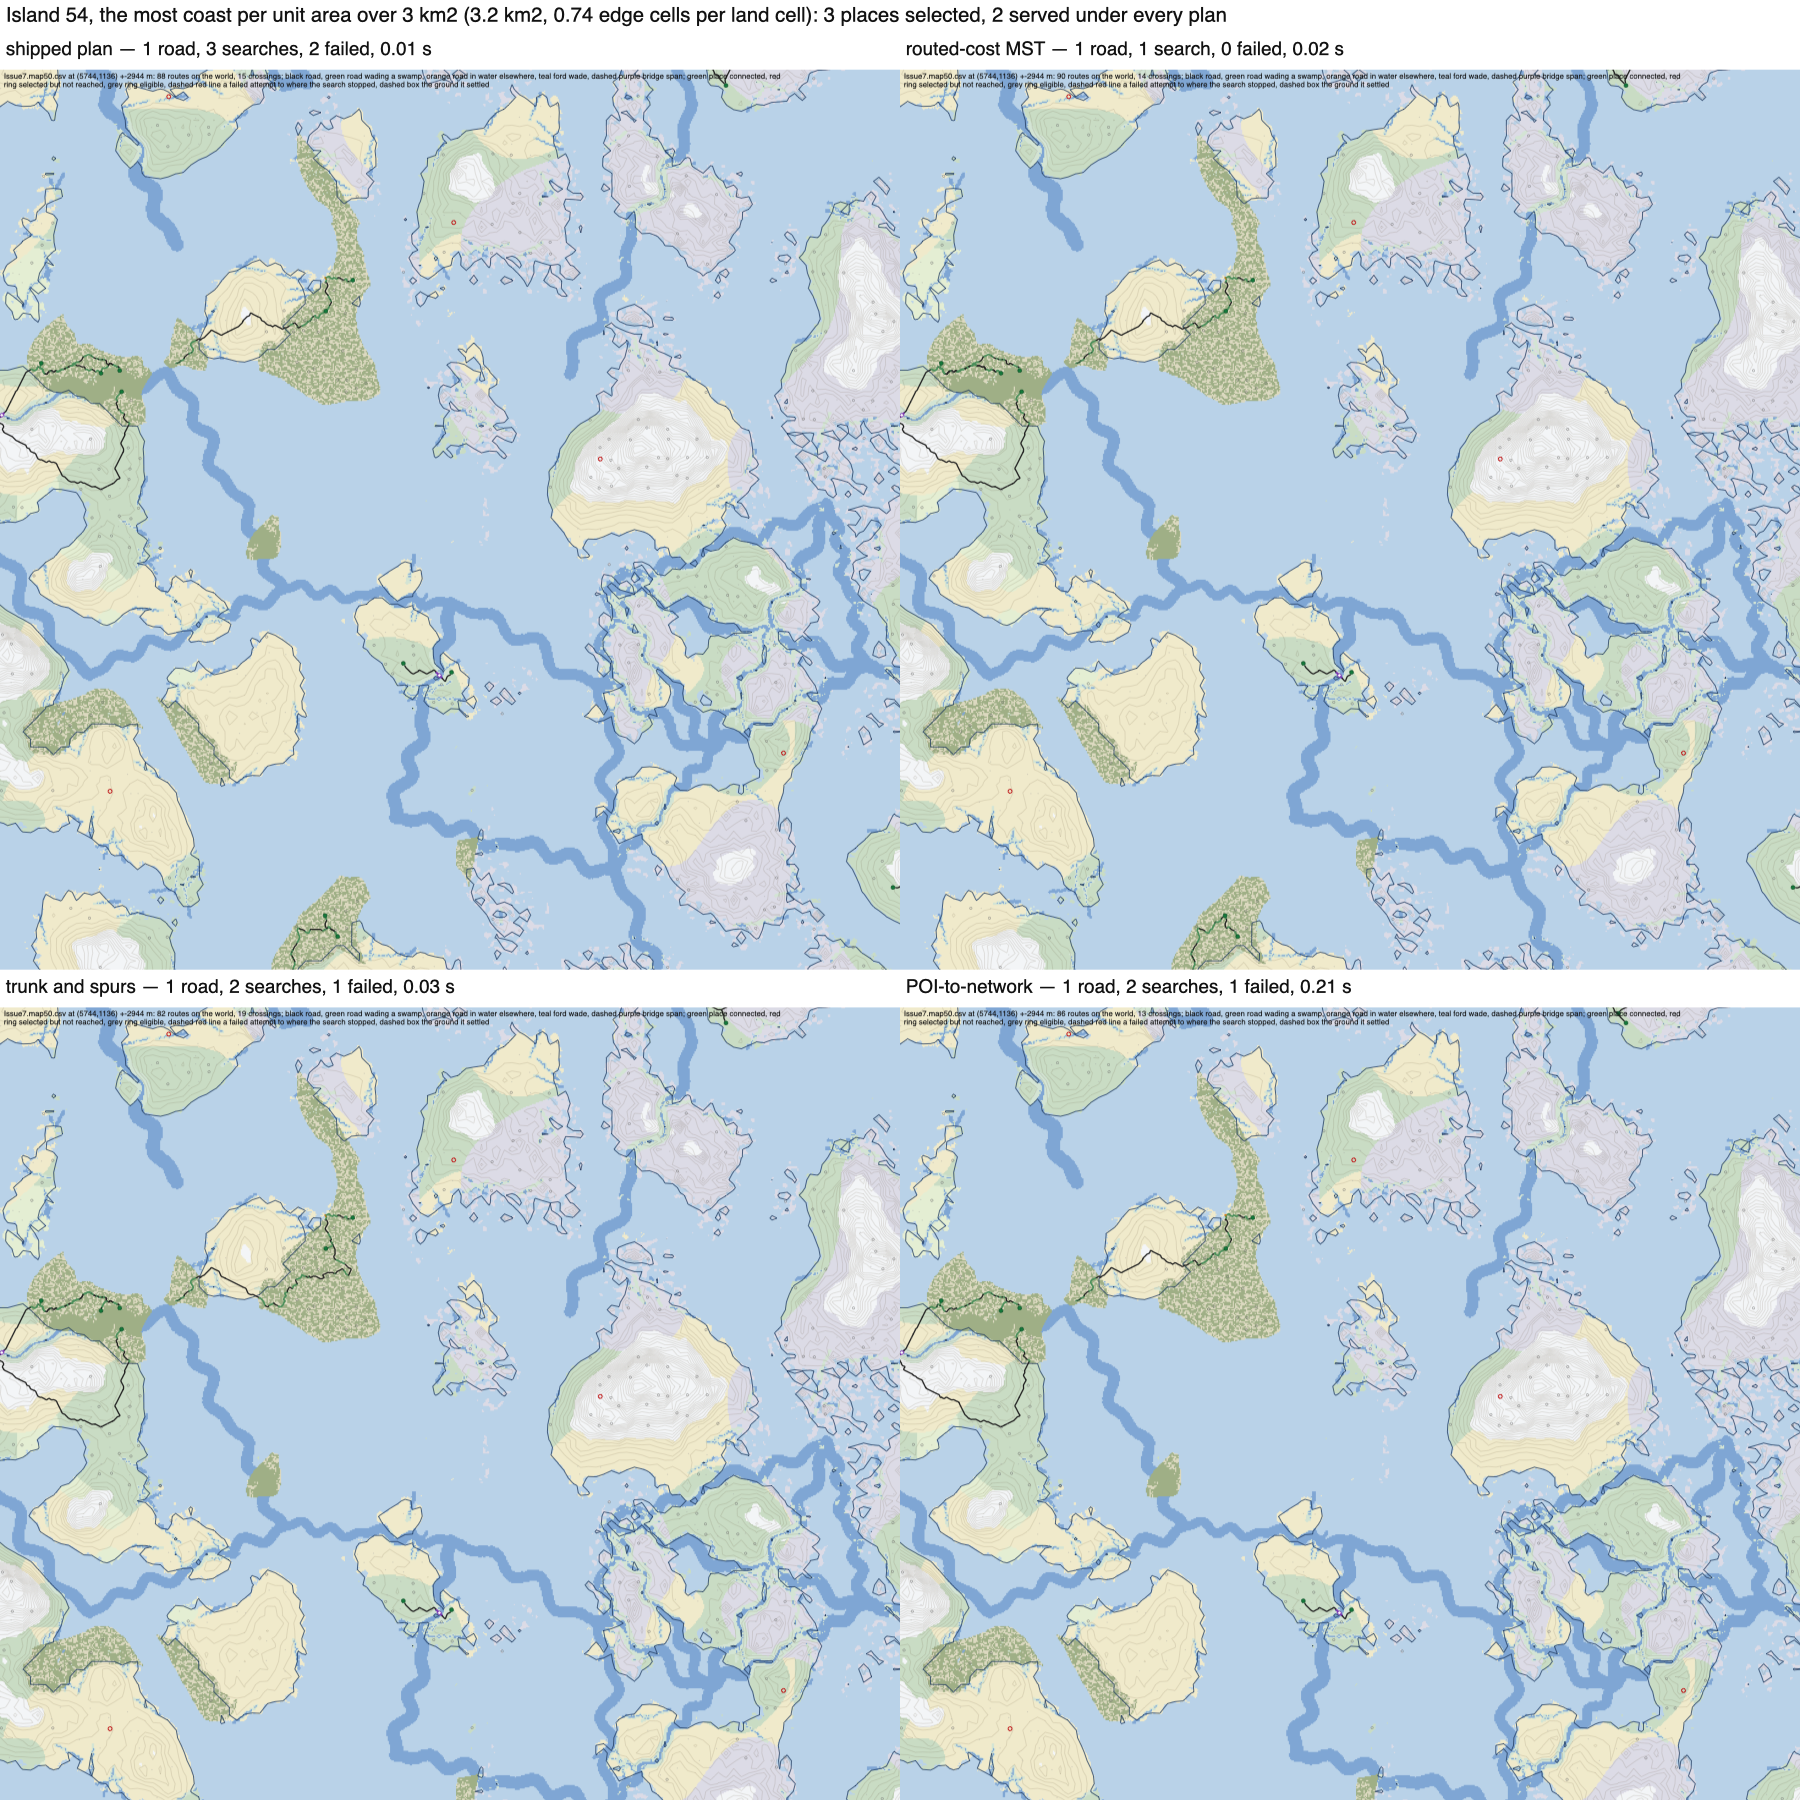
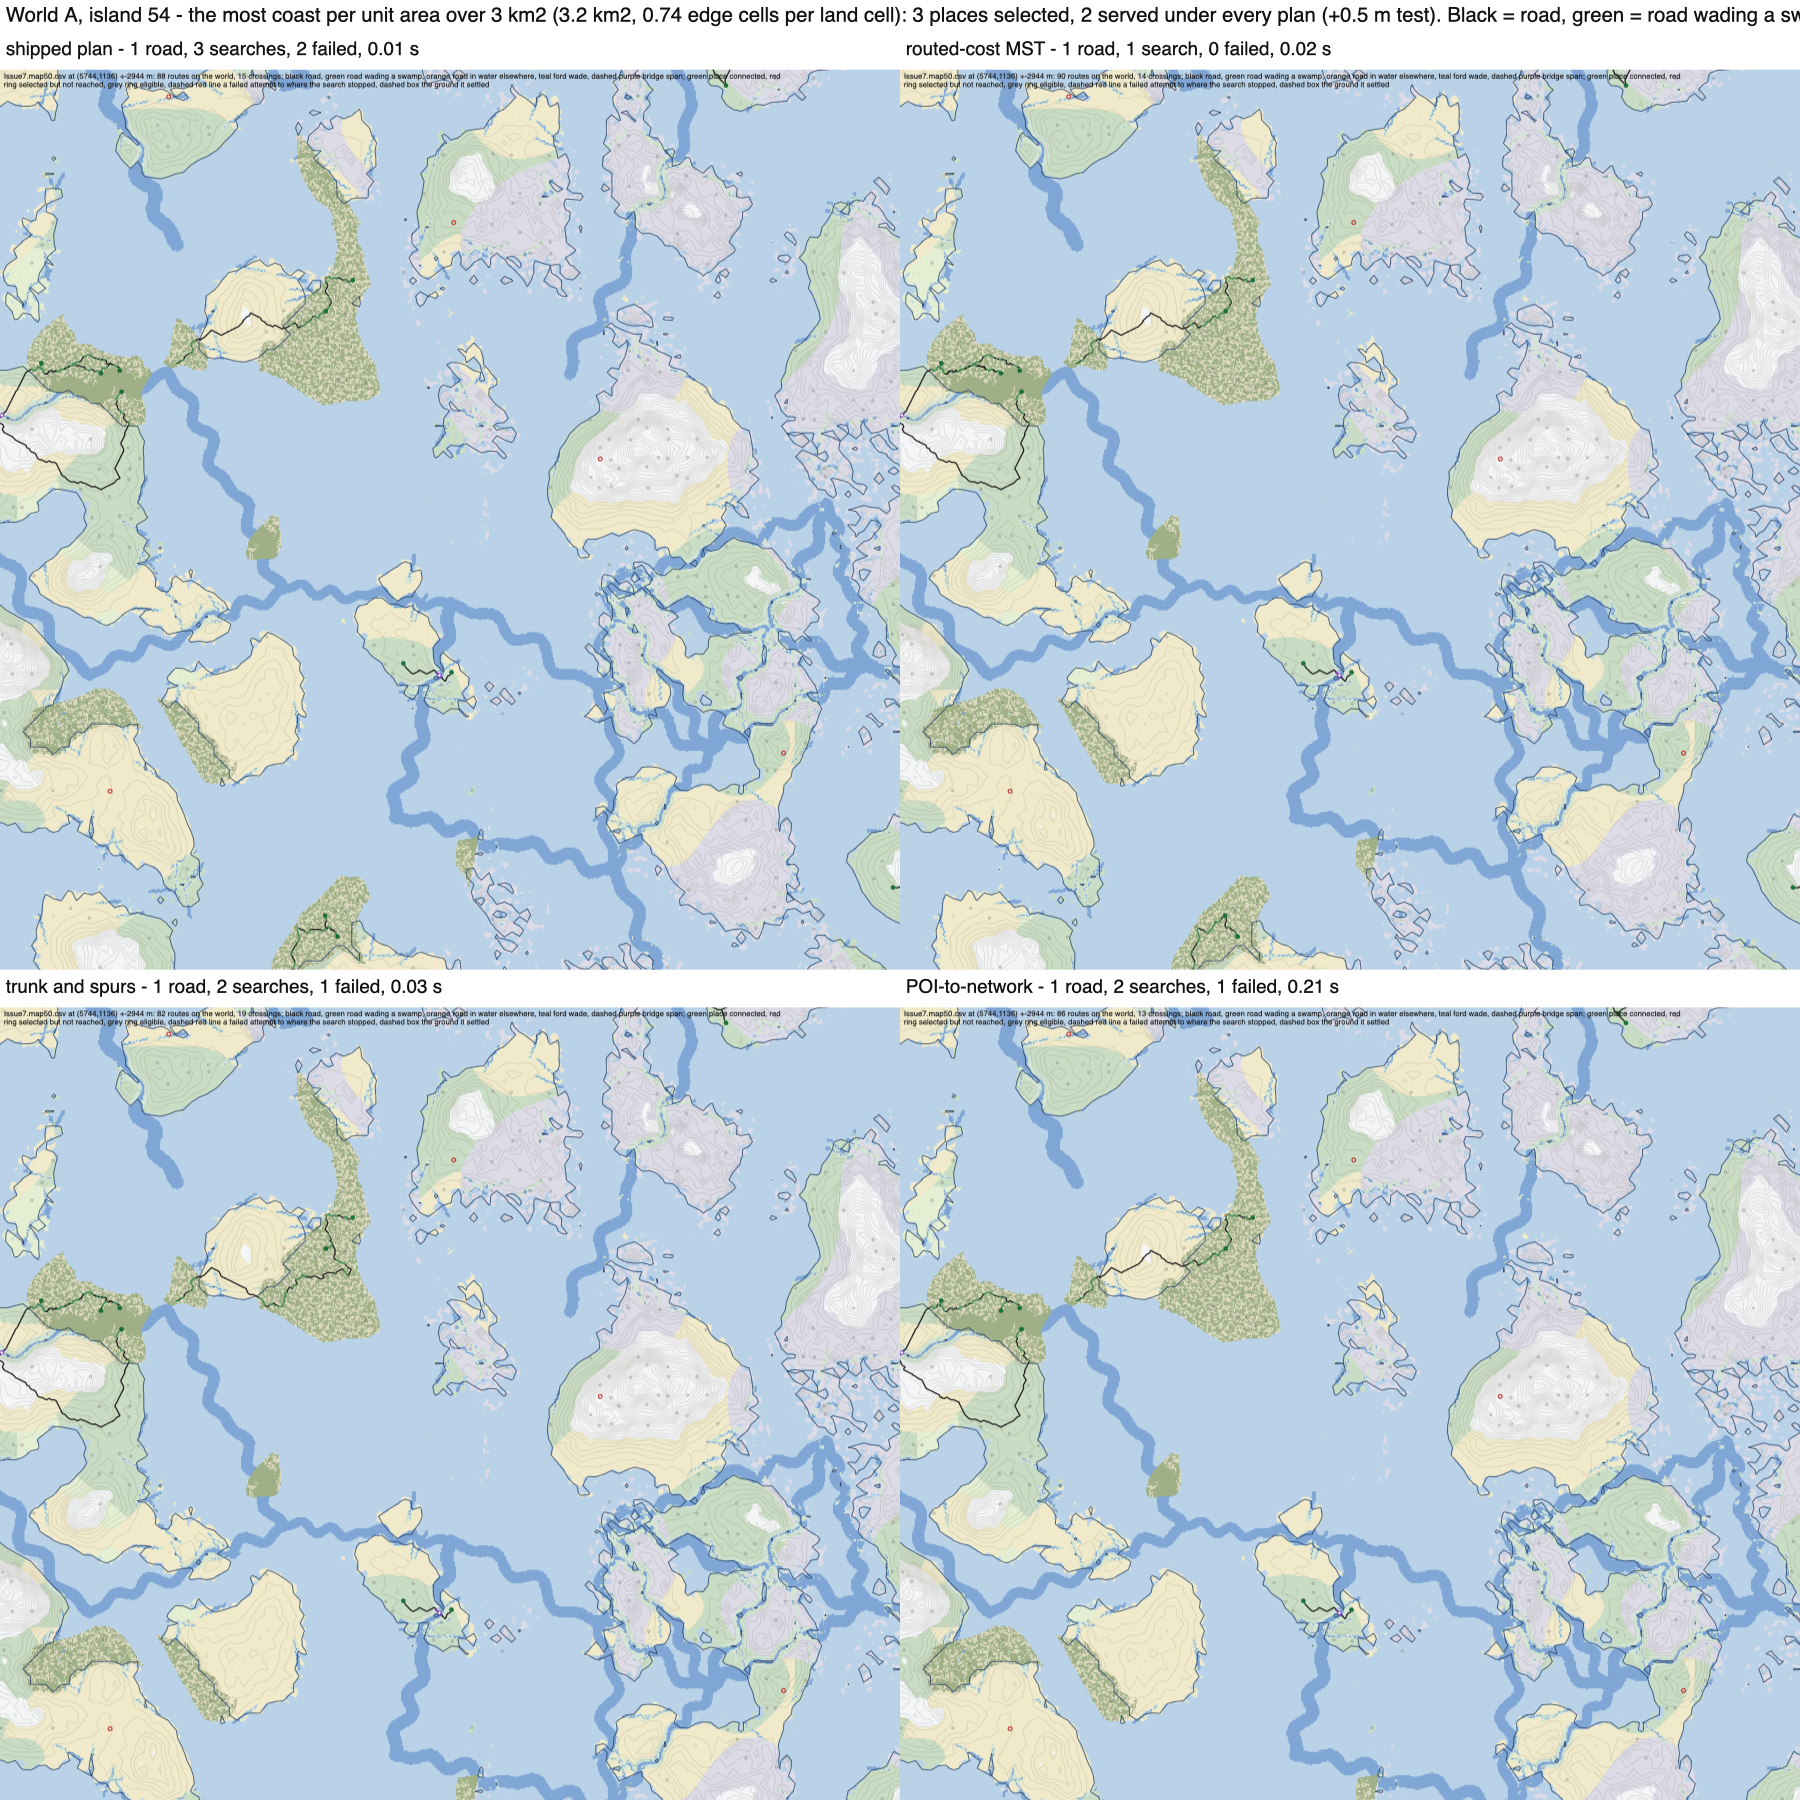
study data: visuals catch up with the text
The charts plotted the +0.5 m serving counts and labelled the axis 'places
served'; the trade-off chart ordered its panels by sorting the run names, which
is world A, C, B. Both fixed, worlds named A/B/C throughout, and the coverage
chart's caption now says outright that Issue7 is not issue #7's seed.

Adds tee-example.png, which is the thing the whole recommendation turns on and
had no picture: one place on world A at 1.24 km across, under the shipped plan
and under POI-to-network. Checking what was actually in the frame before
captioning it was worth doing -- the first caption said 'two roads passing
without meeting' and there is exactly one road there.

Sheet titles now carry a readable legend rather than relying on the tiny one
embedded in each panel, and every served figure on them says (+0.5 m).

diff --git a/validation-results/screenshots/study-2026-09-10/README.md b/validation-results/screenshots/study-2026-09-10/README.md
@@ -19,6 +19,12 @@ waded ford, dashed purple for the unpainted span of a bridge.
 | island54-planners.png | the island with the most coast for its area (0.74 edge cells per land cell) under all four plans |
 | chart-tradeoff.png | places served against distinct road, per plan and per world, with generation time in its own panel |
 | chart-coverage.png | places served by category, four plans, with boss altars marked as the required ones |
+| tee-example.png | one junction under the shipped plan and under POI-to-network, at 1.24 km across: what a tee looks like against a road that nothing joins |
+
+**All served counts on these images use the +0.5 m serving test** (see the
+document's section 2); the strict count is 5 to 8 lower per run. Worlds are
+named A, B and C as in the document — world A is `Issue7` in the run files and
+is **not** issue #7's own seed.
 
 The three islands were chosen on the measured terrain in
 `../../study-2026-09-10/Issue7-island-terrain.txt`, not by eye. The charts
